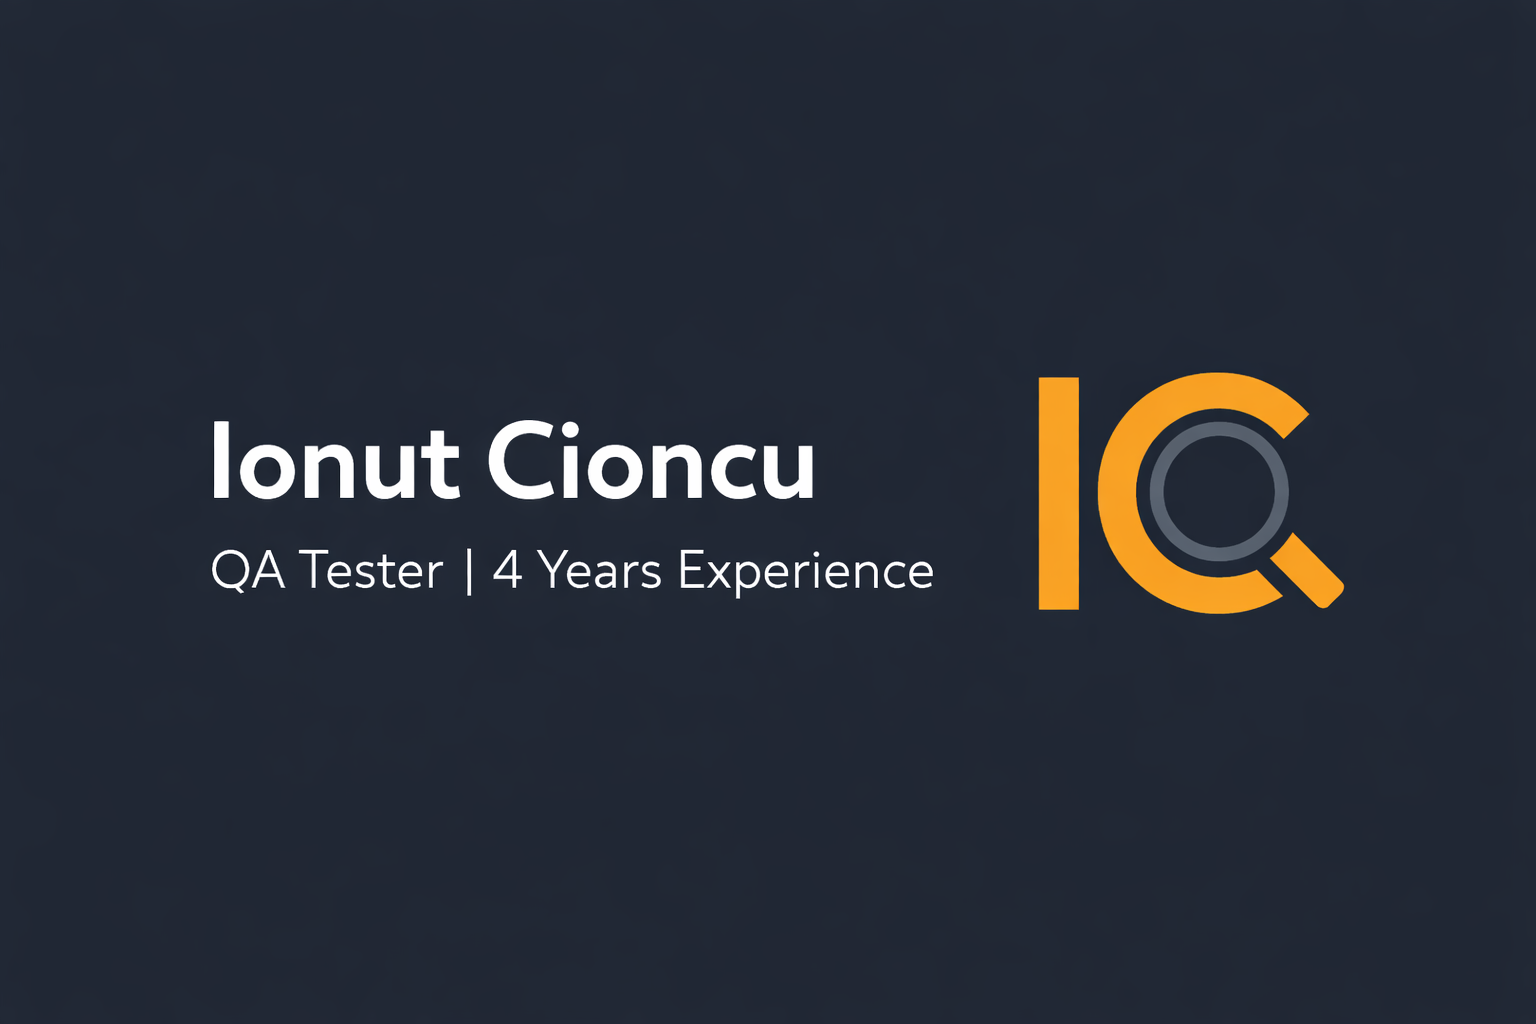
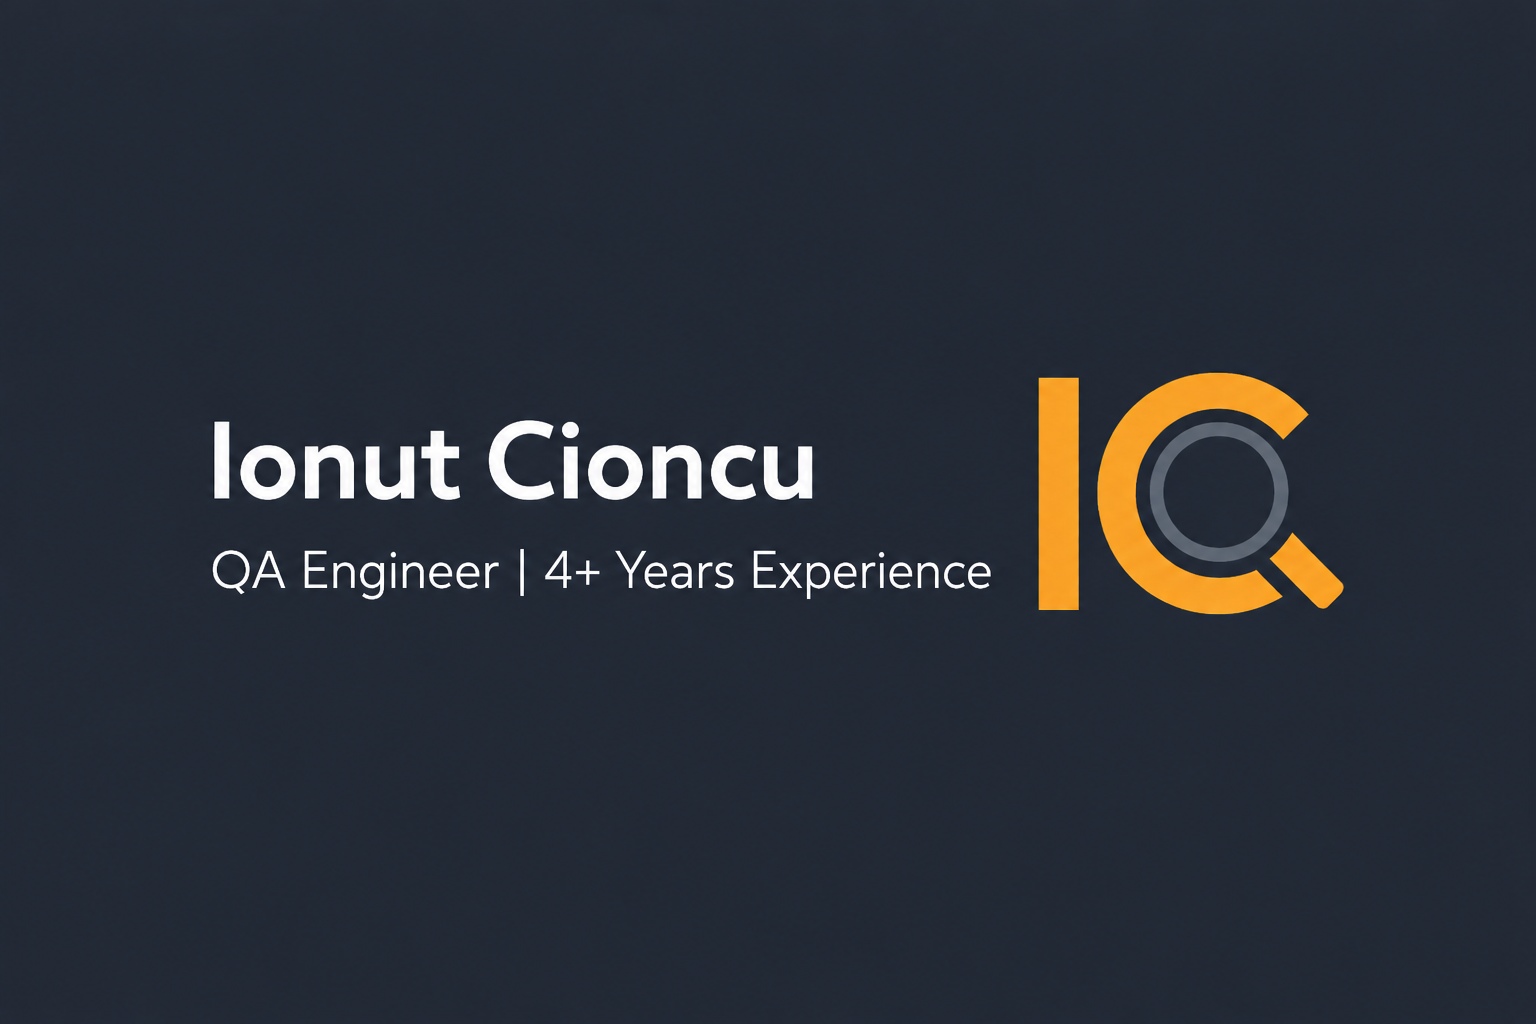
leftovers (#16)

Changed region(s): [[0.1562, 0.5312, 0.6562, 0.5938]]

diff --git a/app/layout.tsx b/app/layout.tsx
@@ -8,13 +8,13 @@ import Footer from "@/components/layout/Footer";
 
 export const metadata: Metadata = {
   metadataBase: new URL("https://lonut.dev"),
-  title: "Ionut Cioncu - QA Tester",
-  description: "Portfolio of Ionut Cioncu - QA Tester with 4 years of experience in Naval Shipping and Payments domains at Endava PLC. Based in Pitesti, Romania.",
-  keywords: ["Ionut Cioncu", "QA Tester", "Endava", "REST API Testing", "Postman", "PostgreSQL", "Kubernetes", "Azure", "Selenium", "Cypress", "Romania"],
+  title: "Ionut Cioncu - QA Engineer",
+  description: "Portfolio of Ionut Cioncu, a QA Engineer with 4+ years of experience across Maritime Logistics and Payments at Endava. Experienced in test automation, REST APIs, distributed systems, and AI-assisted engineering.",
+  keywords: ["Ionut Cioncu", "QA Engineer", "Endava", "Maritime Logistics", "Payments", "Test Automation", "REST APIs", "PostgreSQL", "Microservices", "Kafka", "Cosmos DB", "Playwright", "Selenium", "Cypress", "LLM Testing", "MCP", "Romania"],
   authors: [{ name: "Ionut Cioncu" }],
   openGraph: {
-    title: "Ionut Cioncu - QA Tester",
-    description: "Product-minded QA professional with 4 years of multi-domain experience in Naval Shipping and Payments domains.",
+    title: "Ionut Cioncu - QA Engineer",
+    description: "QA Engineer with 4+ years of experience across Maritime Logistics and Payments, working with test automation, APIs, distributed systems, and AI-assisted engineering.",
     type: "website",
     url: "https://lonut.dev",
     siteName: "Ionut Cioncu Portfolio",
@@ -23,7 +23,7 @@ export const metadata: Metadata = {
         url: "/opengraph-image.png",
         width: 1920,
         height: 1080,
-        alt: "Ionut Cioncu - QA Tester",
+        alt: "Ionut Cioncu - QA Engineer",
       },
     ],
   },

diff --git a/lib/data/testimonials.ts b/lib/data/testimonials.ts
@@ -10,12 +10,12 @@ export const testimonials: Testimonial[] = [
     quote: "He is one of the best QA resources I have worked with. His attention to detail in preparing test scenarios and executing them with full focus is truly commendable. He not only validates the expected outcomes but also checks various permutations and combinations to ensure that the feature or enhancement works as intended. One important strength I noticed is that he takes time to understand the underlying business requirements and use cases, rather than just following pre-defined test cases.",
     author: "Harish",
     role: "Product Owner",
-    company: "Naval Shipping Project"
+    company: "Maritime Logistics Project"
   },
   {
     quote: "Ionut is without a doubt, the most effective tester I've worked with from the Endava side. While many carry the title of QA, Ionut truly embodies the Engineer in QA Engineer. His attention to detail is outstanding - he consistently goes a step further, digging into database entries, API calls, and Kibana logs to pinpoint the exact root cause. This level of depth significantly cuts down investigation time for developers. At this point, Ionut has become the go-to person for anything LPA-related.",
     author: "Madalin",
     role: "Principal Software Engineer",
-    company: "Naval Shipping Project"
+    company: "Maritime Logistics Project"
   }
 ]

diff --git a/components/sections/PortfolioHero.tsx b/components/sections/PortfolioHero.tsx
@@ -10,7 +10,7 @@ export default function PortfolioHero() {
       </h1>
 
       <p className="text-gray-400 max-w-prose text-lg leading-relaxed">
-        QA Tester with 4 years of experience at{" "}
+        QA Engineer with 4+ years of experience at{" "}
         <Link
           href="https://www.endava.com/"
           target="_blank"
@@ -23,7 +23,7 @@ export default function PortfolioHero() {
       </p>
 
       <p className="text-gray-400 max-w-prose text-lg leading-relaxed">
-        I&apos;ve worked across Naval Shipping and Payments domains, becoming the QA SME. I bridge the gap between testing and business analysis, going beyond the happy path to look for edge cases and question if we&apos;re building the right thing.
+        I&apos;ve worked across Maritime Logistics and Payments domains, becoming the QA SME. I bridge the gap between testing and business analysis, going beyond the happy path to look for edge cases and question if we&apos;re building the right thing.
       </p>
 
       {/* Skills Section */}

diff --git a/components/sections/Experience.tsx b/components/sections/Experience.tsx
@@ -18,13 +18,13 @@ interface ExperienceItem {
 const experienceData: ExperienceItem[] = [
   {
     company: "Endava Romania",
-    role: "QA Tester",
+    role: "QA Engineer",
     url: "https://www.endava.com/",
     logoUrl: "/logos/endava.png",
     logoAlt: "Endava Logo",
     startDate: "2022-06-01",
     details:
-      "QA Tester working on Naval Shipping and Payments domains. Conducting REST API testing, validating payment flows, writing SQL scripts, and became QA SME for the projects.",
+      "QA Engineer working on Maritime Logistics and Payments domains. Conducting REST API testing, validating payment flows, writing SQL scripts, and serving as QA SME for the projects.",
   },
   {
     company: "Vision",

diff --git a/app/api/weather/route.ts b/app/api/weather/route.ts
@@ -3,7 +3,7 @@ export const dynamic = 'force-dynamic';
 
 import { getCloudflareContext } from '@opennextjs/cloudflare';
 
-const LOCATION = 'Pitesti';
+const LOCATION = 'Bucharest';
 const CACHE_DURATION = 10 * 60 * 1000; // 10 minutes in milliseconds
 
 let cachedWeather: {
@@ -69,7 +69,7 @@ export async function GET() {
     console.error('Failed to fetch weather:', error);
     return Response.json(
       {
-        location: 'Pitesti',
+        location: 'Bucharest',
         temp: '--',
         condition: 'Unavailable',
         icon: '🌡',

diff --git a/components/bento/LocationMap.tsx b/components/bento/LocationMap.tsx
@@ -15,8 +15,8 @@ export default function LocationMap({ onRecenter }: LocationMapProps) {
     // Only initialize if we haven't already and container exists
     if (mapRef.current || !containerRef.current) return;
 
-    // Pitești, Romania coordinates
-    const position: [number, number] = [44.8565, 24.8692];
+    // Bucharest, Romania coordinates
+    const position: [number, number] = [44.4268, 26.1025];
 
     // Create map instance
     const map = L.map(containerRef.current, {

diff --git a/app/about/page.tsx b/app/about/page.tsx
@@ -8,7 +8,7 @@ export const metadata: Metadata = {
   openGraph: {
     title: "About Ionut Cioncu - QA Engineer at Endava",
     description: "QA Engineer with 4+ years of experience across Maritime Logistics and Payments, working with APIs, distributed systems, test automation, and AI-assisted engineering.",
-    url: "https://ionut.dev/about",
+    url: "https://lonut.dev/about",
   },
 };
 

diff --git a/components/bento/LocationMapWidget.tsx b/components/bento/LocationMapWidget.tsx
@@ -27,7 +27,7 @@ export default function LocationMapWidget() {
   const [isDaytime, setIsDaytime] = useState(true);
   const [weather, setWeather] = useState<WeatherData | null>(null);
   const timezone = 'Europe/Bucharest';
-  const location = 'Pitești, Romania';
+  const location = 'Bucharest, Romania';
   const utcOffset = 'UTC+2';
 
   useEffect(() => {

diff --git a/app/projects/page.tsx b/app/projects/page.tsx
@@ -8,7 +8,7 @@ export const metadata: Metadata = {
   openGraph: {
     title: "Projects - Ionut Cioncu",
     description: "GitHub projects built with TypeScript, Next.js, and React.",
-    url: "https://ionut.dev/projects",
+    url: "https://lonut.dev/projects",
   },
 };
 

diff --git a/README.md b/README.md
@@ -1,6 +1,6 @@
 # 💼 Portfolio - Ionut Cioncu
 
-Professional portfolio website showcasing QA testing expertise, technical projects, and professional experience. Built with modern web technologies and deployed on Cloudflare's edge network.
+Professional portfolio website showcasing QA engineering expertise, technical projects, and professional experience. Built with modern web technologies and deployed on Cloudflare's edge network.
 
 [![Live Demo](https://img.shields.io/badge/LIVE_DEMO-lonut.dev-blue?style=for-the-badge)](https://lonut.dev)
 [![Cloudflare](https://img.shields.io/badge/CLOUDFLARE-Workers-orange?style=for-the-badge&logo=cloudflare)](https://workers.cloudflare.com/)
@@ -22,7 +22,7 @@ Professional portfolio website showcasing QA testing expertise, technical projec
 
 ### 👤 Professional Showcase
 - **Interactive Hero** - Skills taxonomy with domain expertise
-- **Experience Timeline** - 4 years across Naval Shipping & Payments
+- **Experience Timeline** - 4+ years across Maritime Logistics & Payments
 - **Project Gallery** - Live demos with GitHub integration
 - **Professional Avatar** - Custom branding and visual identity
 - **SEO Optimized** - Open Graph metadata for social shares
@@ -68,7 +68,7 @@ Professional portfolio website showcasing QA testing expertise, technical projec
 
 ### Professional Showcase
 - Interactive hero section with skills taxonomy
-- Experience timeline with domain expertise (Naval Shipping, Payments)
+- Experience timeline with domain expertise (Maritime Logistics, Payments)
 - Project gallery with live demos and GitHub integration
 - Professional avatar and branding
 
@@ -388,13 +388,15 @@ wrangler secret put GITHUB_TOKEN
 
 ## Skills Taxonomy
 
-**API Testing**: Postman, REST APIs
-**Databases**: PostgreSQL, SQL scripting
-**Cloud & DevOps**: AWS S3, Azure, Kubernetes, Kibana
-**Messaging**: Apache Kafka
-**Automation**: Cypress, Selenium
-**AI & Integration**: Prompt Engineering, Claude API, MCP Servers
-**Other**: JSON, Microservices, Git
+**Test Automation**: Playwright, Selenium, Cypress, POM, Data-Driven Testing
+**Programming**: C#, TypeScript, OOP
+**API Testing**: REST APIs, Postman, Insomnia
+**Data & Messaging**: SQL, PostgreSQL, Cosmos DB, Apache Kafka
+**CI/CD**: GitHub Actions, TeamCity
+**Version Control**: Git, Bitbucket Cloud
+**Cloud & Tooling**: AWS, Azure, Kubernetes, Cloudflare, Kibana
+**Methodologies & Concepts**: Agile/Scrum, Waterfall, BDD, Shift-Left, E2E Testing, Integration Testing
+**AI Engineering**: Prompt/Context Engineering, Prompt Injection, LLM Testing, Agent Evaluation, MCP
 
 ## Deployment
 
@@ -425,7 +427,7 @@ MIT License - Free to use as template
 - **Website**: [lonut.dev](https://lonut.dev)
 - **GitHub**: [@ionutcnu](https://github.com/ionutcnu)
 - **LinkedIn**: [cioncu](https://linkedin.com/in/cioncu)
-- **Location**: Pitesti, Romania
+- **Location**: Romania
 
 ---
 
